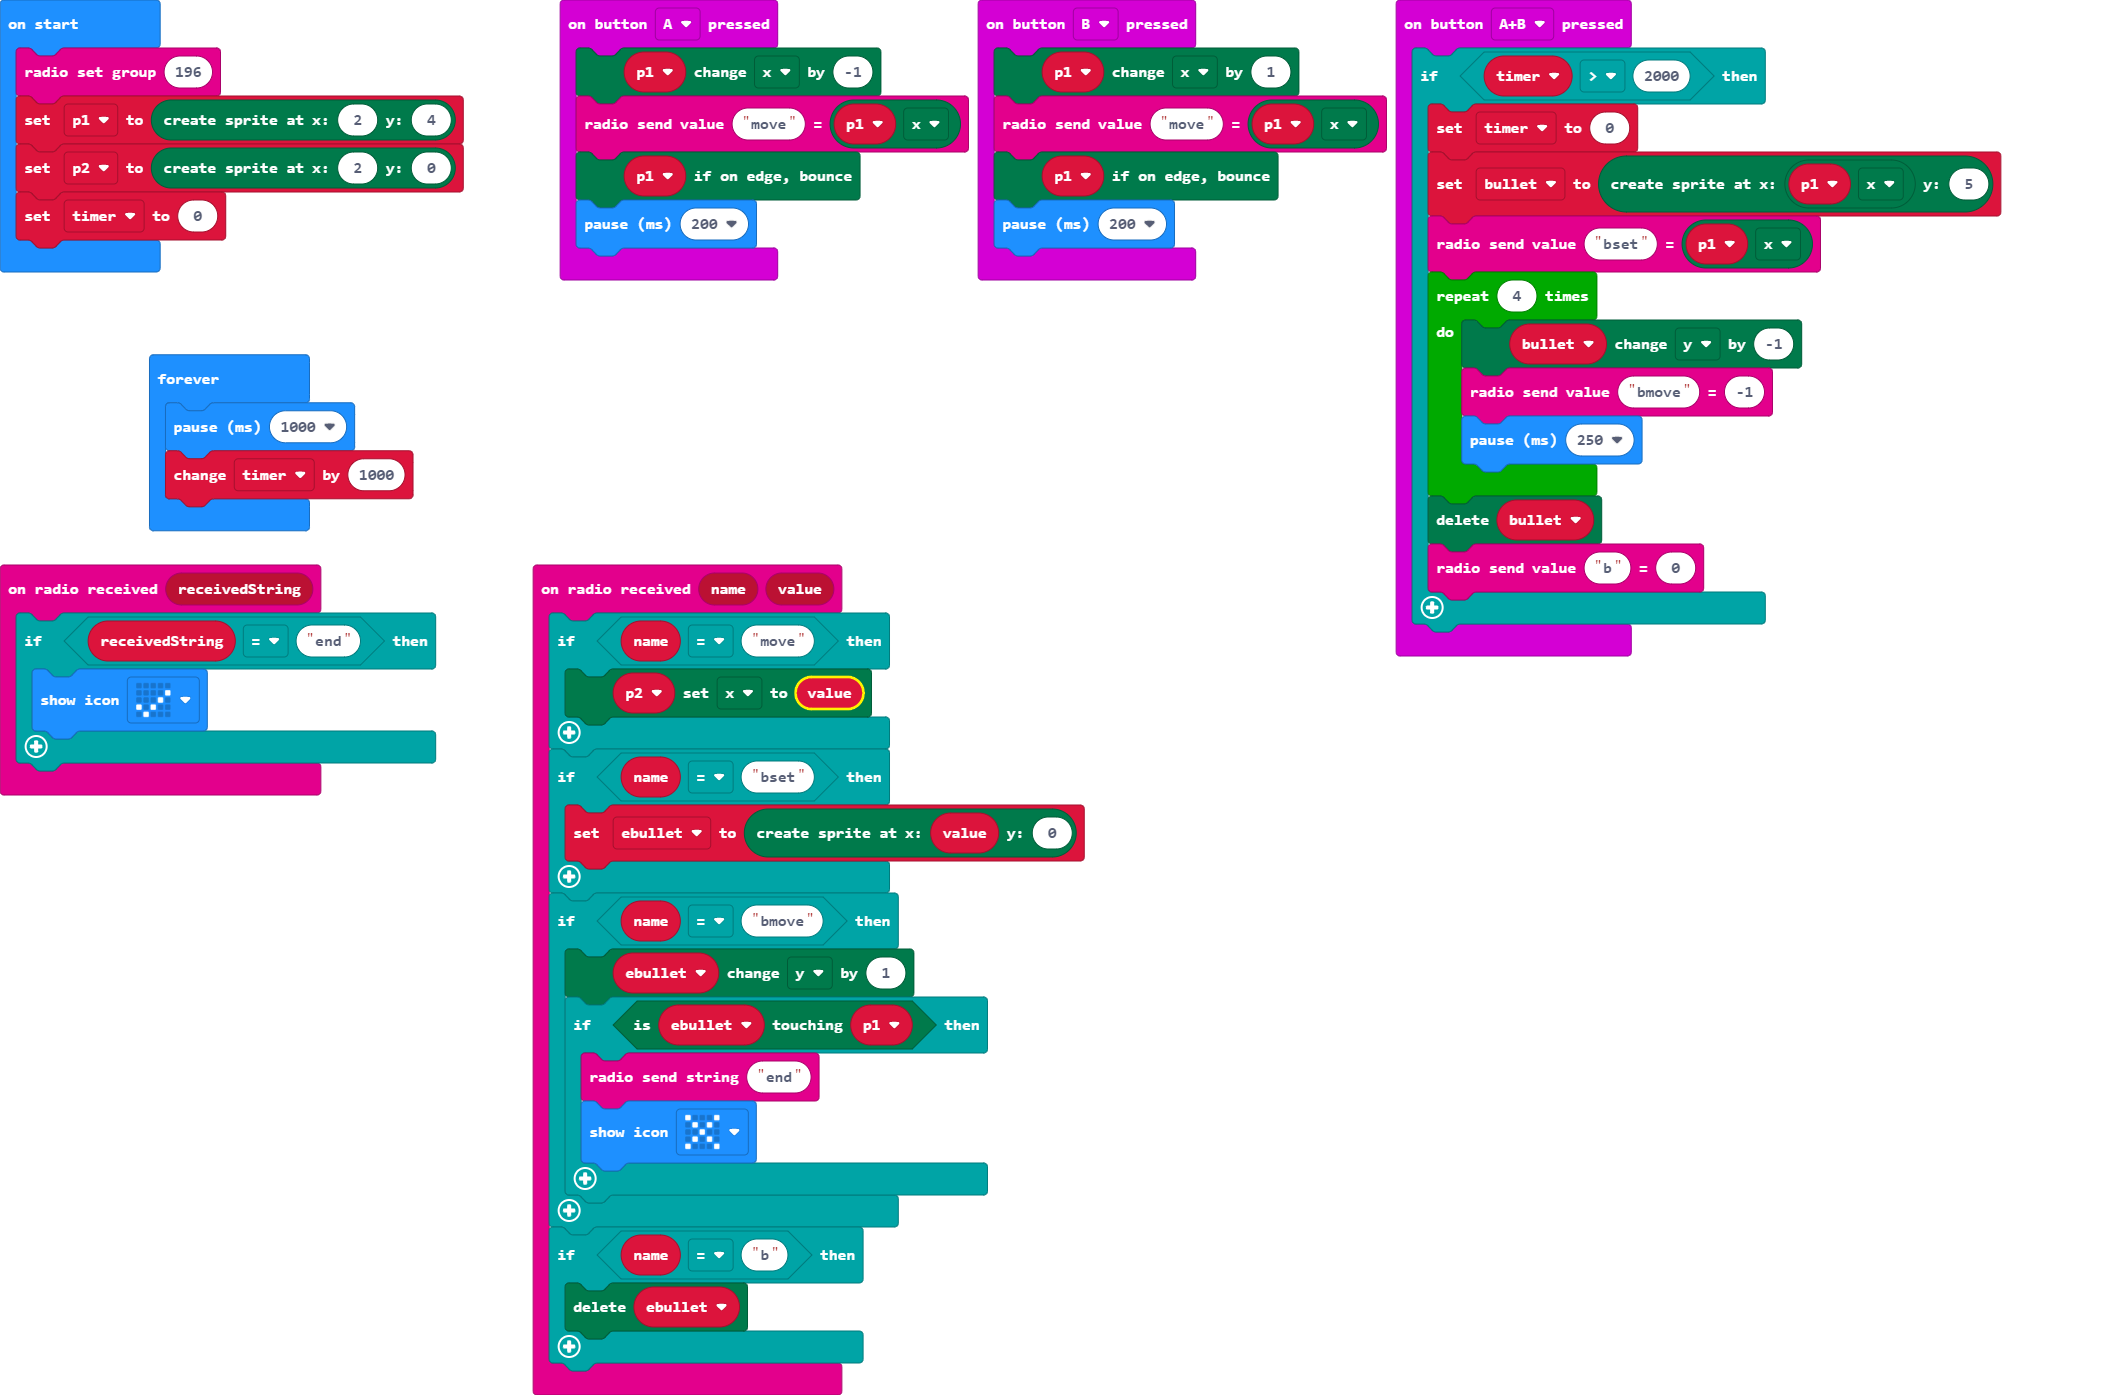
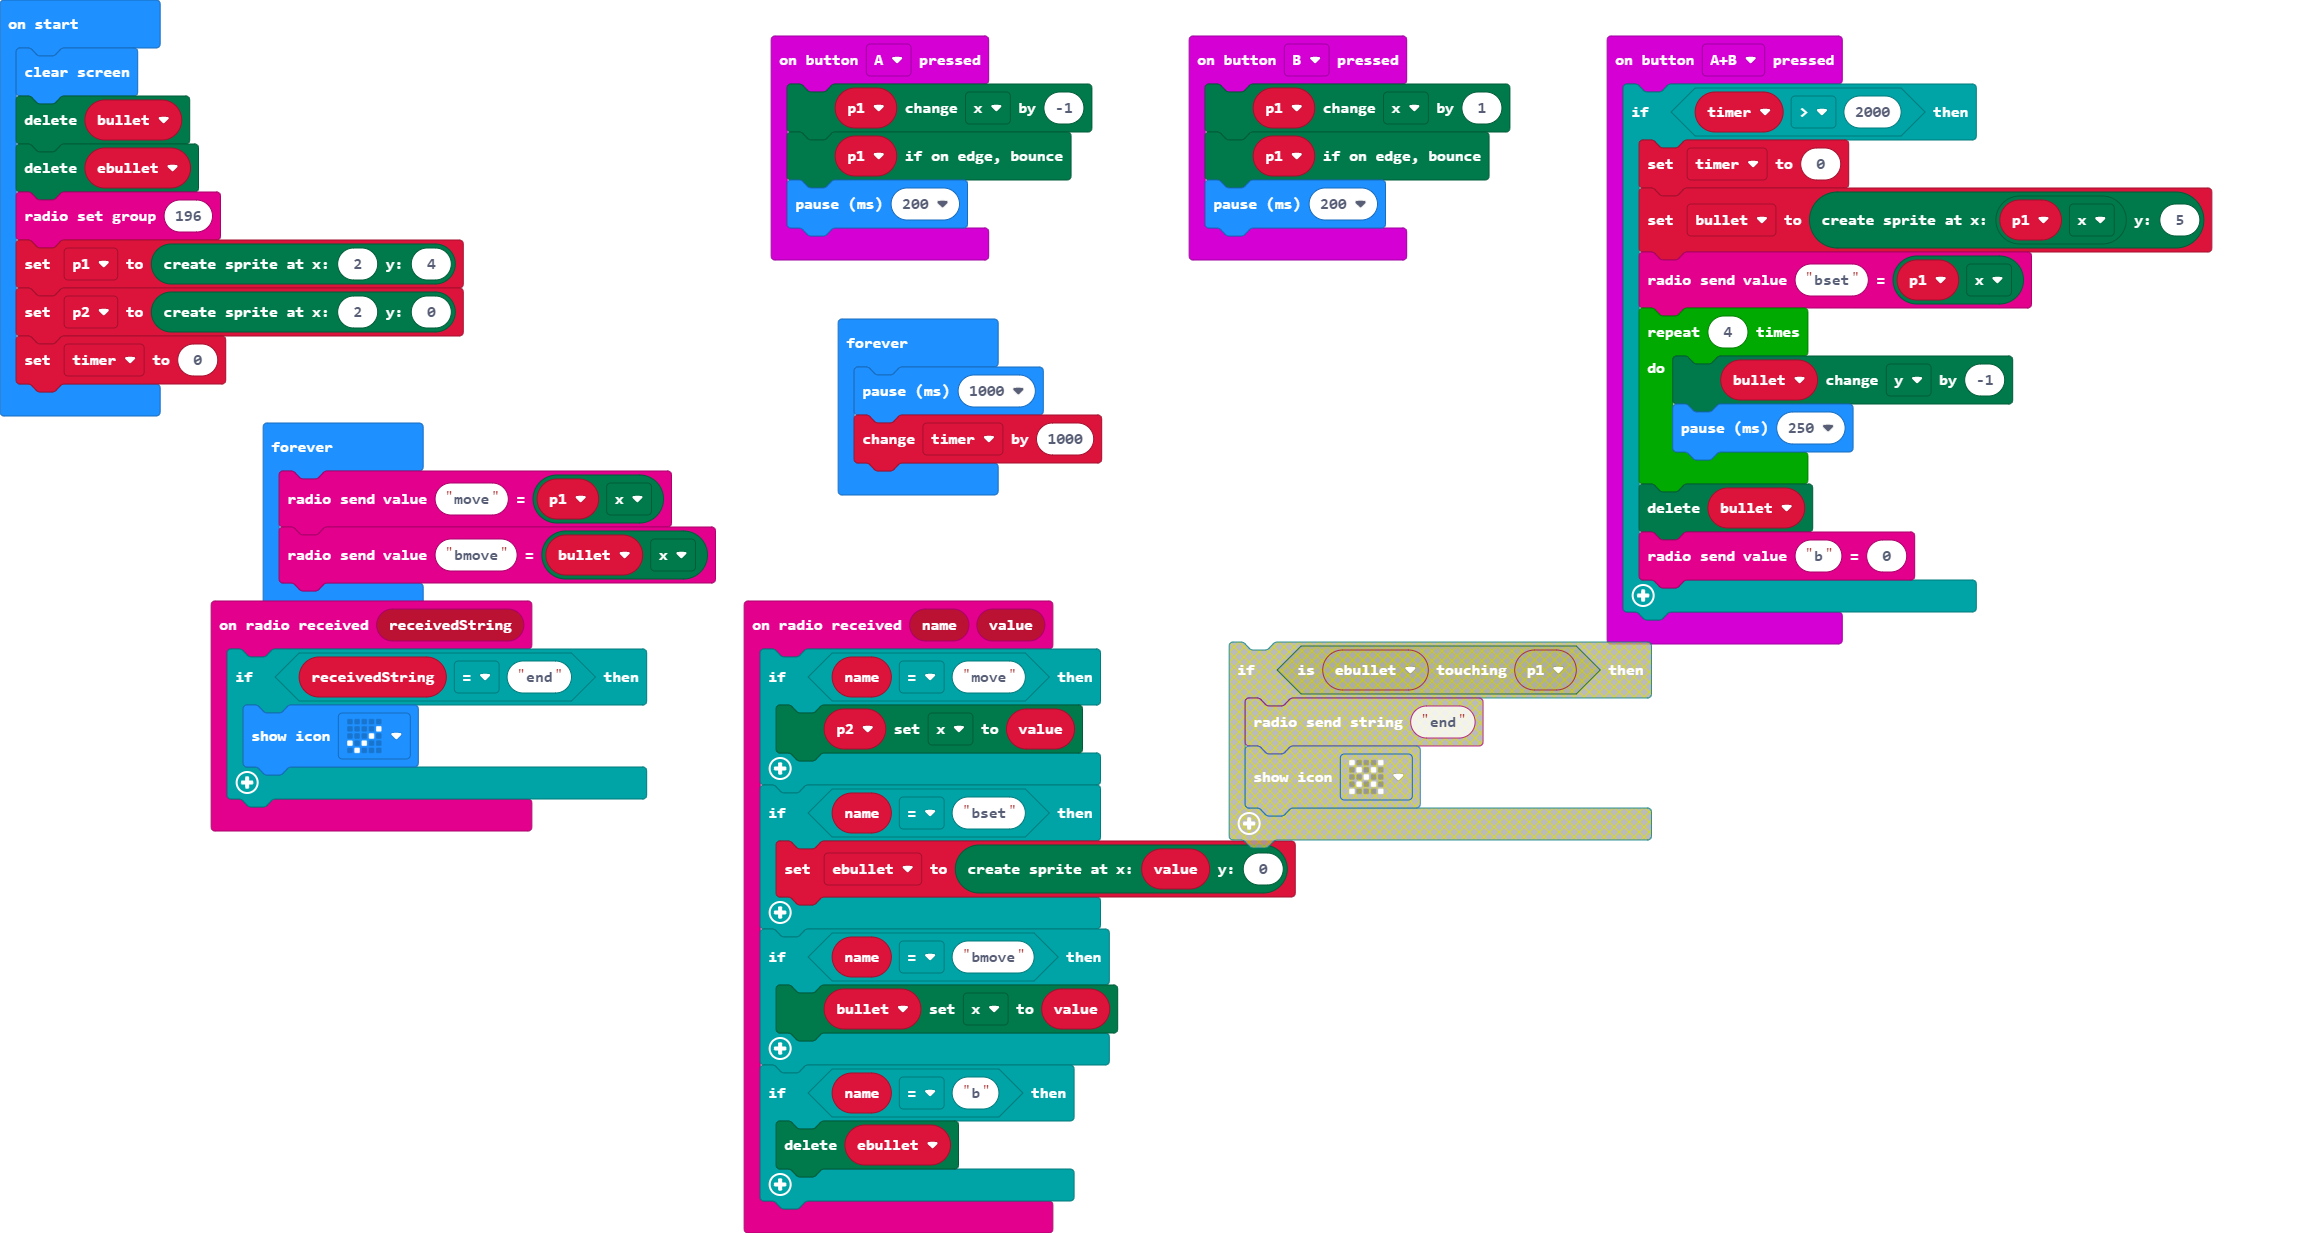
improve start

diff --git a/main.ts b/main.ts
@@ -1,6 +1,5 @@
 input.onButtonPressed(Button.A, function () {
     p1.change(LedSpriteProperty.X, -1)
-    radio.sendValue("move", p1.get(LedSpriteProperty.X))
     p1.ifOnEdgeBounce()
     basic.pause(200)
 })
@@ -11,7 +10,6 @@ input.onButtonPressed(Button.AB, function () {
         radio.sendValue("bset", p1.get(LedSpriteProperty.X))
         for (let index = 0; index < 4; index++) {
             bullet.change(LedSpriteProperty.Y, -1)
-            radio.sendValue("bmove", -1)
             basic.pause(250)
         }
         bullet.delete()
@@ -25,7 +23,6 @@ radio.onReceivedString(function (receivedString) {
 })
 input.onButtonPressed(Button.B, function () {
     p1.change(LedSpriteProperty.X, 1)
-    radio.sendValue("move", p1.get(LedSpriteProperty.X))
     p1.ifOnEdgeBounce()
     basic.pause(200)
 })
@@ -37,21 +34,20 @@ radio.onReceivedValue(function (name, value) {
         ebullet = game.createSprite(value, 0)
     }
     if (name == "bmove") {
-        ebullet.change(LedSpriteProperty.Y, 1)
-        if (ebullet.isTouching(p1)) {
-            radio.sendString("end")
-            basic.showIcon(IconNames.No)
-        }
+        bullet.set(LedSpriteProperty.X, value)
     }
     if (name == "b") {
         ebullet.delete()
     }
 })
-let ebullet: game.LedSprite = null
-let bullet: game.LedSprite = null
 let timer = 0
 let p2: game.LedSprite = null
 let p1: game.LedSprite = null
+let ebullet: game.LedSprite = null
+let bullet: game.LedSprite = null
+basic.clearScreen()
+bullet.delete()
+ebullet.delete()
 radio.setGroup(196)
 p1 = game.createSprite(2, 4)
 p2 = game.createSprite(2, 0)
@@ -59,4 +55,8 @@ timer = 0
 basic.forever(function () {
     basic.pause(1000)
     timer += 1000
+})
+basic.forever(function () {
+    radio.sendValue("move", p1.get(LedSpriteProperty.X))
+    radio.sendValue("bmove", bullet.get(LedSpriteProperty.X))
 })
